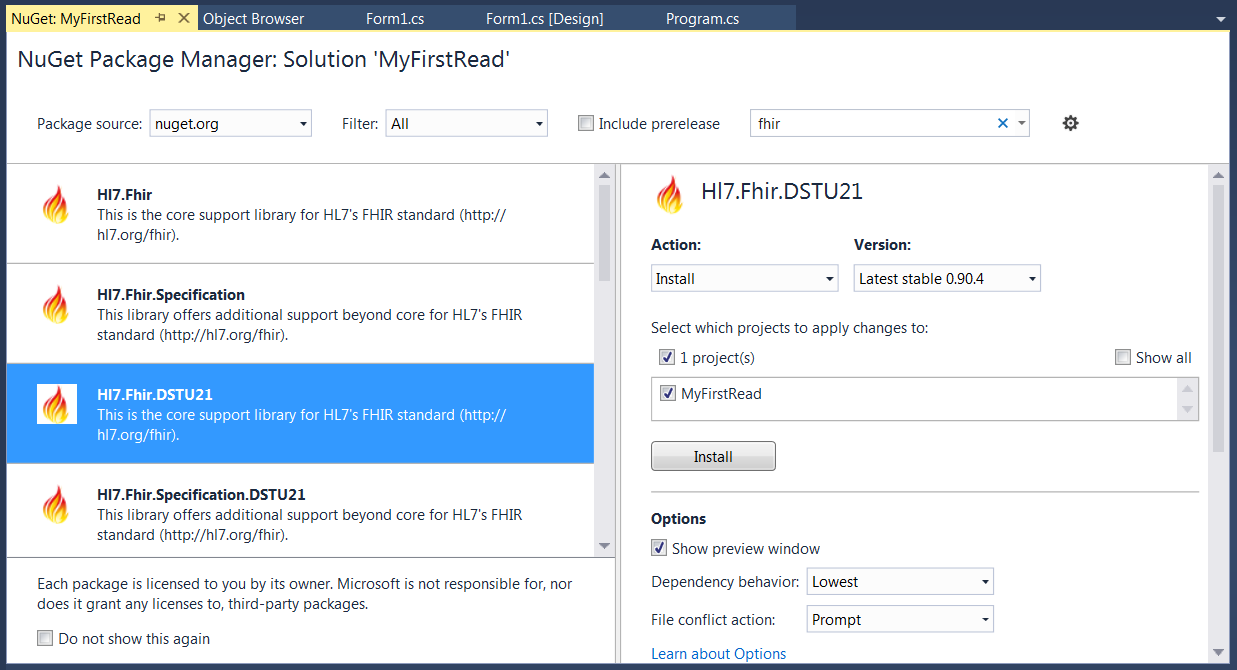
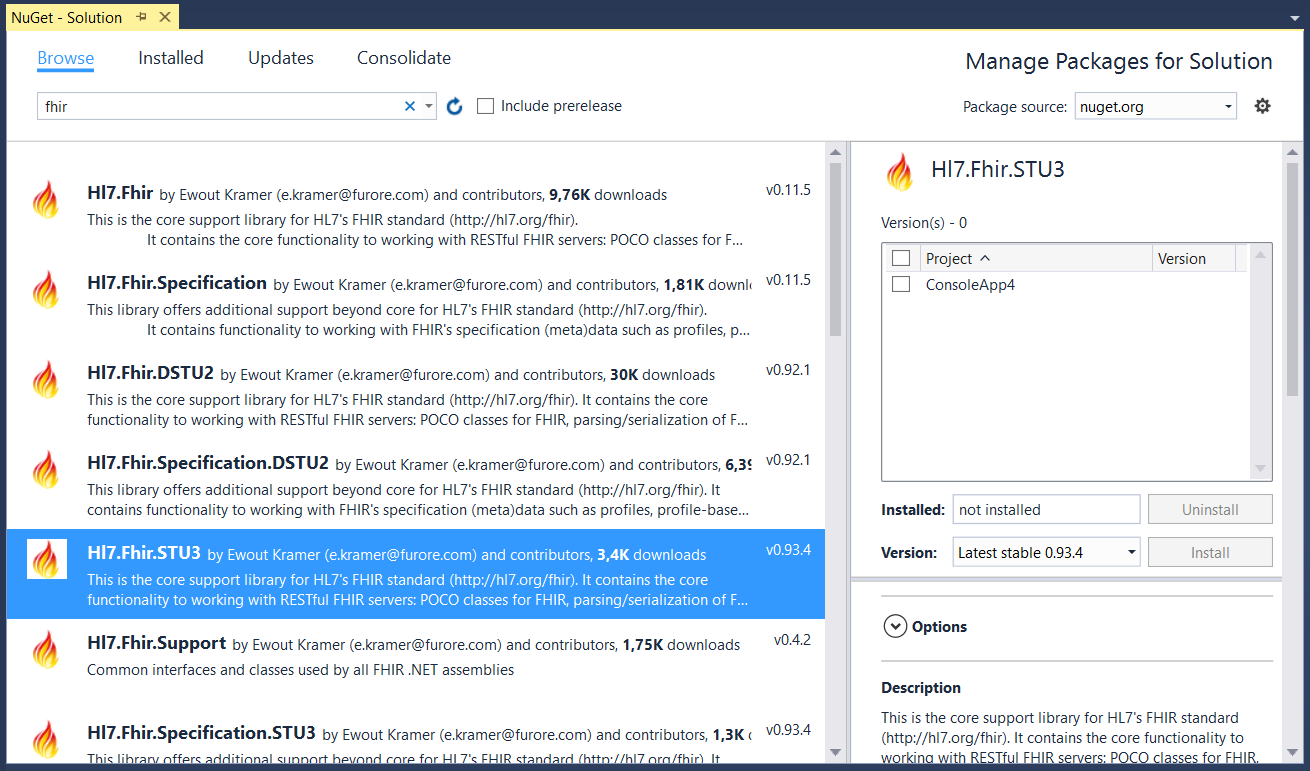
Added new structure for .Net API docs

diff --git a/_templates/breadcrumbs.html b/_templates/breadcrumbs.html
@@ -1,0 +1,22 @@
+{% extends "!breadcrumbs.html" %}
+
+<!-- Add navigation to GitHub for .Net API docs, and include AppVeyor status -->
+{% block breadcrumbs_aside %}
+<li class="wy-breadcrumbs-aside">
+		{% if hasdoc(pagename) %}
+			{% if _('fhirnetapi') in pagename %}
+				<div class="wy-control-no-input">
+					STU3: <a href="https://ci.appveyor.com/project/ewoutkramer/fhir-net-api-7cq0g/branch/develop-stu3">
+						<img alt="AppVeyor_STU3" width="106" height="20" src="https://ci.appveyor.com/api/projects/status/tt94it79sgl172up/branch/develop-stu3?svg=true" />
+					</a>
+					<a href="https://github.com/ewoutkramer/fhir-net-api">
+						<svg version="1.1" width="12" height="12" viewBox="0 0 16 16" class="octicon octicon-mark-github" aria-hidden="true">
+							<path fill-rule="evenodd" d="M8 0C3.58 0 0 3.58 0 8c0 3.54 2.29 6.53 5.47 7.59.4.07.55-.17.55-.38 0-.19-.01-.82-.01-1.49-2.01.37-2.53-.49-2.69-.94-.09-.23-.48-.94-.82-1.13-.28-.15-.68-.52-.01-.53.63-.01 1.08.58 1.23.82.72 1.21 1.87.87 2.33.66.07-.52.28-.87.51-1.07-1.78-.2-3.64-.89-3.64-3.95 0-.87.31-1.59.82-2.15-.08-.2-.36-1.02.08-2.12 0 0 .67-.21 2.2.82.64-.18 1.32-.27 2-.27.68 0 1.36.09 2 .27 1.53-1.04 2.2-.82 2.2-.82.44 1.1.16 1.92.08 2.12.51.56.82 1.27.82 2.15 0 3.07-1.87 3.75-3.65 3.95.29.25.54.73.54 1.48 0 1.07-.01 1.93-.01 2.2 0 .21.15.46.55.38A8.013 8.013 0 0 0 16 8c0-4.42-3.58-8-8-8z"/>
+						</svg>
+						 View source on GitHub 
+					</a>
+				</div>
+			{% endif %}
+		{% endif %}
+</li>
+{% endblock %}

diff --git a/_templates/layout.html b/_templates/layout.html
@@ -1,2 +1,4 @@
 {% extends "!layout.html" %}
+
+<!-- Use Simplifier styling -->
 {% set css_files = css_files + [ "_static/css/style.css" ] %}

diff --git a/fhirnetapi/index.rst b/fhirnetapi/index.rst
@@ -1,80 +1,35 @@
-========
-Welcome
-========
+Welcome 
+=======
 
 This is documentation site for the support API for working with `HL7
 FHIR <http://www.hl7.org/fhir>`__ on the Microsoft .NET platform.
 
-This library provides:
+The library provides:
 
 -  Class models for working with the FHIR data model using POCO's
 -  Xml and Json parsers and serializers
 -  A REST client for working with FHIR-compliant servers
 -  Helper classes to work with the specification metadata, and generation of differentials
 
-Getting Started
----------------
+On these pages we provide you with the documentation you need to get up and running with the API.
+We'll first explain how the FHIR model is represented in the API and give you code examples to work with the model.
+The FhirClient and its methods will also be demonstrated. Within an hour you can create your own simple
+FHIR client!
 
-Get started by reading this documentation and downloading one of the NuGet packages:
+After those topics to get you started, we have added some pages that delve deeper into nice API features, such
+as parsing and serializing FHIR data, working with transactions, and using the ResourceIdentity functionality.
 
-.. _version_table:
+Please look at the :ref:`contact` page for ways to ask questions, contribute to the API, or reach out to other
+.Net developers in the FHIR community.
 
-============    ======================    ==============================================
-Spec version    Core		              Specification
-============    ======================    ==============================================
-DSTU 2.1        `Hl7.Fhir.DSTU21`_        `Hl7.Fhir.Specification.DSTU21`_
-DSTU 2          `Hl7.Fhir.DSTU2`_         `Hl7.Fhir.Specification.DSTU2`_
-DSTU 1 [*]_     `Hl7.Fhir.DSTU`_          `Hl7.Fhir.Specification.DSTU`_
-============    ======================    ==============================================
 
-.. [*] Please note that the DSTU1 release is not maintained anymore.
-
-.. _`Hl7.Fhir.DSTU21`: https://www.nuget.org/packages/Hl7.Fhir.DSTU21/
-.. _`Hl7.Fhir.DSTU2`: https://www.nuget.org/packages/Hl7.Fhir.DSTU2/
-.. _`Hl7.Fhir.DSTU`: https://www.nuget.org/packages/Hl7.Fhir.DSTU/
-.. _`Hl7.Fhir.Specification.DSTU21`: https://www.nuget.org/packages/Hl7.Fhir.Specification.DSTU21/
-.. _`Hl7.Fhir.Specification.DSTU2`: https://www.nuget.org/packages/Hl7.Fhir.Specification.DSTU2/
-.. _`Hl7.Fhir.Specification.DSTU`: https://www.nuget.org/packages/Hl7.Fhir.Specification.DSTU/
-
-Support
--------
-
-We actively monitor the `issues <https://github.com/ewoutkramer/fhir-net-api/issues>`__ 
-coming in through the GitHub repository.
-You are welcome to register your bugs and feature suggestions there!
-
-For broader discussions, there's a `"FHIR on .NET" Google
-group <https://groups.google.com/forum/#!forum/fhir-dotnet>`__.
-
-We are also present on `chat.fhir.org <https://chat.fhir.org>`__ on Zulip.
-
-Contributing
-------------
-
-We are welcoming contributors!
-
-If you want to participate in this project, we're using `Git
-Flow <http://nvie.com/posts/a-successful-git-branching-model/>`__ for
-our branch management, so new development is done on (feature branches
-from) /develop.
-
-GIT branching strategy
-~~~~~~~~~~~~~~~~~~~~~~
-
--  `NVIE <http://nvie.com/posts/a-successful-git-branching-model/>`__
--  Or see: `Git
-   workflow <https://www.atlassian.com/git/workflows#!workflow-gitflow>`__
-   
 .. toctree::
-   :maxdepth: 2
+   :maxdepth: 1
    :hidden:
 
-   project-setup
-   client-setup
-   client-search
-..
-   client-history
-   validation
-   artifacts
-   whats-new
-   
+   start
+   model
+   client
+   contact
+.. add files here, or in between
+

diff --git a/fhirnetapi/client.rst b/fhirnetapi/client.rst
@@ -1,0 +1,44 @@
+=================
+Working with REST
+=================
+
+In this section we explain the methods of the FhirClient that are in the
+Hl7.Fhir.Rest part of the API package.
+
+Creating a FhirClient
+---------------------
+
+Before we can do any of the interactions explained in the next part, we
+have to create a new FhirClient. This is done by passing the url of the
+FHIR server's endpoint as a parameter to the constructor:
+
+.. code:: csharp
+
+    var client = new FhirClient("http://vonk.furore.com");
+
+You'll create an instance of a client for every server you want to work
+with. Every call we'll do on this client will be for interactions
+with this server. Since resources may reference other resources on a different FHIR server,
+you'll have to inspect any references and direct them to the right FhirClient.
+Of course, if you're dealing with a single server within your organization or a single
+cloud-based FHIR server, you don't have to worry about this.
+
+There's a list of `publically available test 
+servers <http://wiki.hl7.org/index.php?title=Publicly_Available_FHIR_Servers_for_testing>`__ you can use.
+
+FhirClient options
+^^^^^^^^^^^^^^^^^^
+To specify the preferred format --JSON or XML-- of the content to be used when communicating
+with the FHIR server, you can use the ``PreferredFormat`` attribute:
+
+.. code:: csharp
+
+    client.PreferredFormat = ResourceFormat.Json;
+
+The FHIR client will send all requests in the specified format. Servers
+are asked to return responses in the same format, but may choose
+to ignore that request.
+
+
+..
+	.. include:: client-crud.rst

diff --git a/fhirnetapi/model.rst b/fhirnetapi/model.rst
@@ -1,0 +1,38 @@
+.. _FHIR-model:
+
+======================
+Working with the model
+======================
+
+``Hl7.Fhir.Model`` contains model classes which correspond to the FHIR Resources and data types,
+like Patient and HumanName. The code is generated by the FHIR publication tool, which is used to
+build a new version of the `FHIR website <http://www.hl7.org/fhir>`__.
+
+In this section we will explain how to work with the model, and give you some code examples.
+
+Partial classes for Resource and data types
+-------------------------------------------
+For each Resource type and data type in FHIR, the API contains a class in the form of a public partial class.
+If you need extra code to be performed when using these classes, you can just implement
+your own partial class for it. That way you can keep your code separate from the API code.
+
+Class fields
+^^^^^^^^^^^^
+The API classes have a field for each of the elements in the Resource or data type model.
+For example, the Patient resource has an ``active`` element:
+
+.. image:: ./images/fhir_patient_active.png
+
+|br|
+The Patient class in the API has a field called ``Active`` that corresponds with this element:
+ 
+.. image:: ./images/api_patient_active.png
+
+..
+	Primitive data types
+	^^^^^^^^^^^^^^^^^^^^
+
+
+.. |br| raw:: html
+
+   <br />

diff --git a/fhirnetapi/start.rst b/fhirnetapi/start.rst
@@ -1,0 +1,33 @@
+.. _getting-started:
+
+===============
+Getting Started
+===============
+
+It's easy to start using the FHIR .Net API in your solution: just add the right NuGet package!
+
+Open your project, or start a new one and go to the NuGet Package Manager.
+The current version of the FHIR specification is STU3. Usually you will need that version of
+the FHIR .Net API as well. If you need to communicate with DSTU2 systems, or even DSTU1, there
+are versions of the API for those as well.
+
+For STU3, you will need the Hl7.Fhir.STU3 package:
+
+1.	Choose Tools --> NuGet Package Manager --> Manage NuGet Packages for Solution...
+
+2.	Click on Browse, and type fhir into the search field.
+
+3.	Click on the package you need, in this case Hl7.Fhir.STU3.
+
+.. image:: ./images/nuget_pm.png
+  :align: center
+
+4.	Check the box next to the name of your project and click on Install.
+
+
+The :ref:`next section <FHIR-model>` explains how the API works with the FHIR model.
+
+
+.. |br| raw:: html
+
+   <br />

diff --git a/fhirnetapi/contact.rst b/fhirnetapi/contact.rst
@@ -1,0 +1,20 @@
+.. _contact:
+
+==========
+Contact us
+==========
+
+We actively monitor the `issues <https://github.com/ewoutkramer/fhir-net-api/issues>`__ 
+coming in through the GitHub repository.
+You are welcome to register your bugs and feature suggestions there!
+
+We are also present on `chat.fhir.org <https://chat.fhir.org>`__ on Zulip, on the dotnet stream,
+or for more general implementation questions, the implementers stream.
+
+For broader discussions, there's a `"FHIR on .NET" Google
+group <https://groups.google.com/forum/#!forum/fhir-dotnet>`__.
+
+You can also ask questions by sending an e-mail to fhirapi@furore.com.
+
+If you're interested in a FHIR training, or want to know what other FHIR tools are available,
+please check `here <https://fhir.furore.com/>`__.
